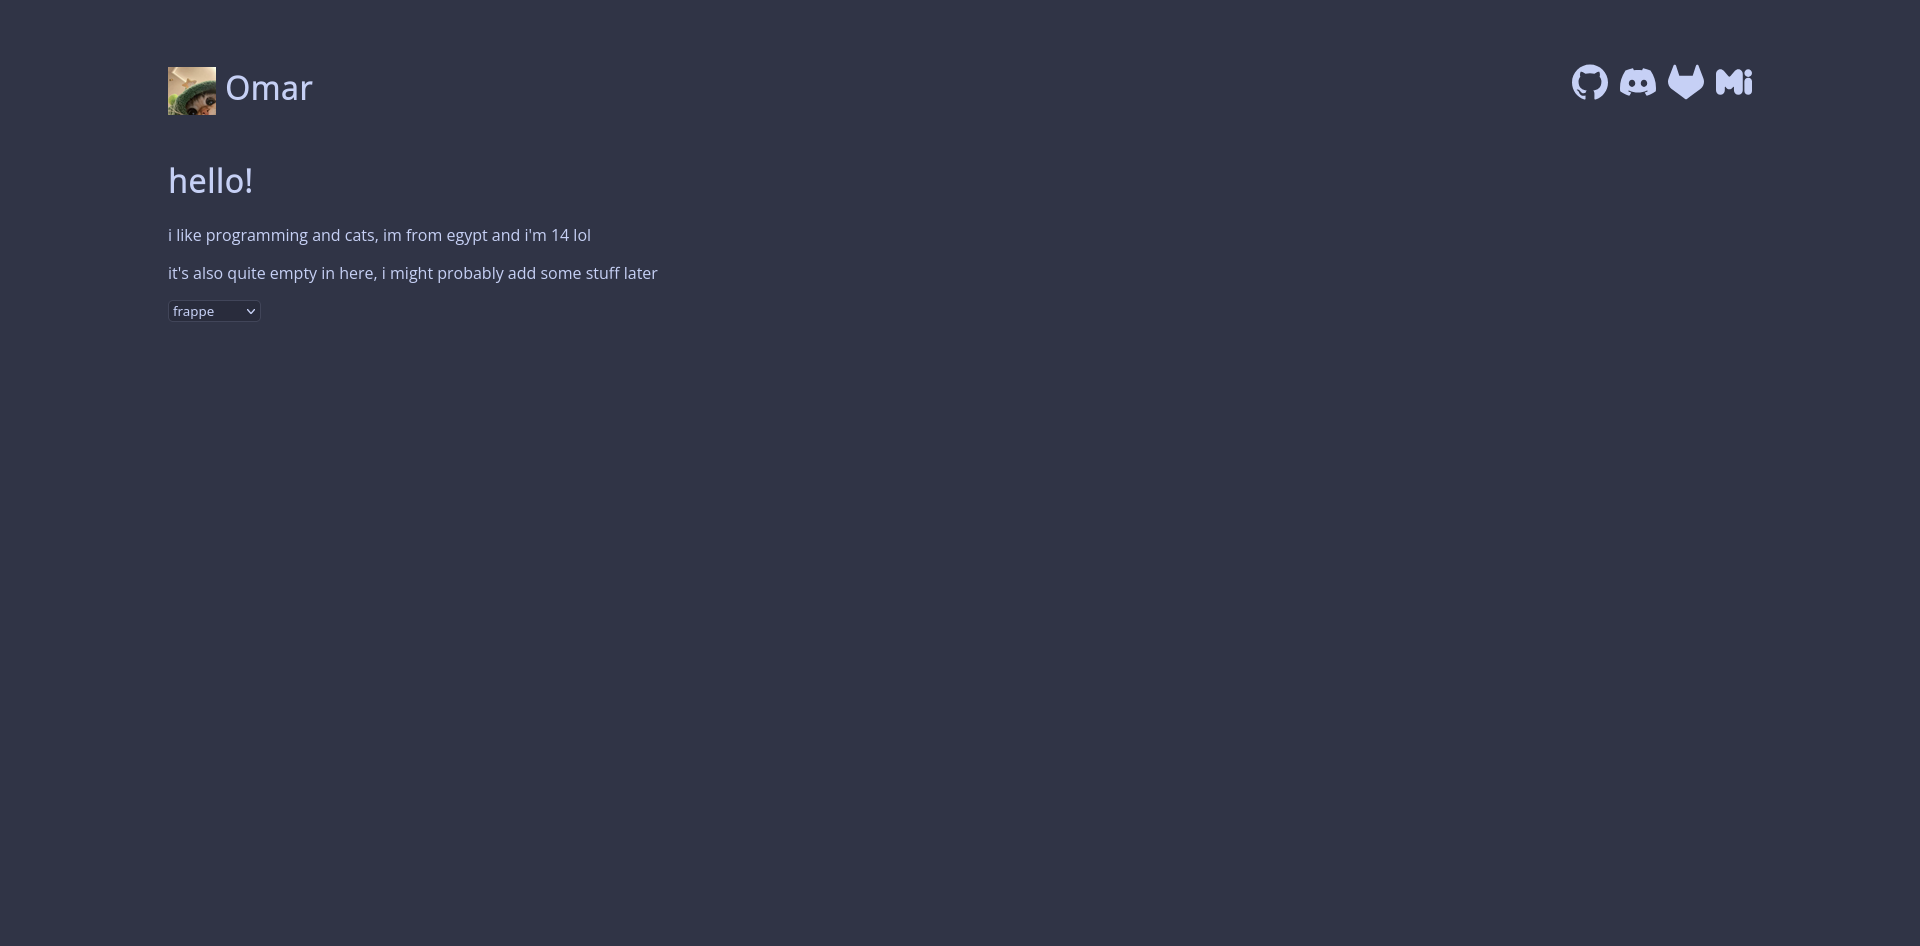
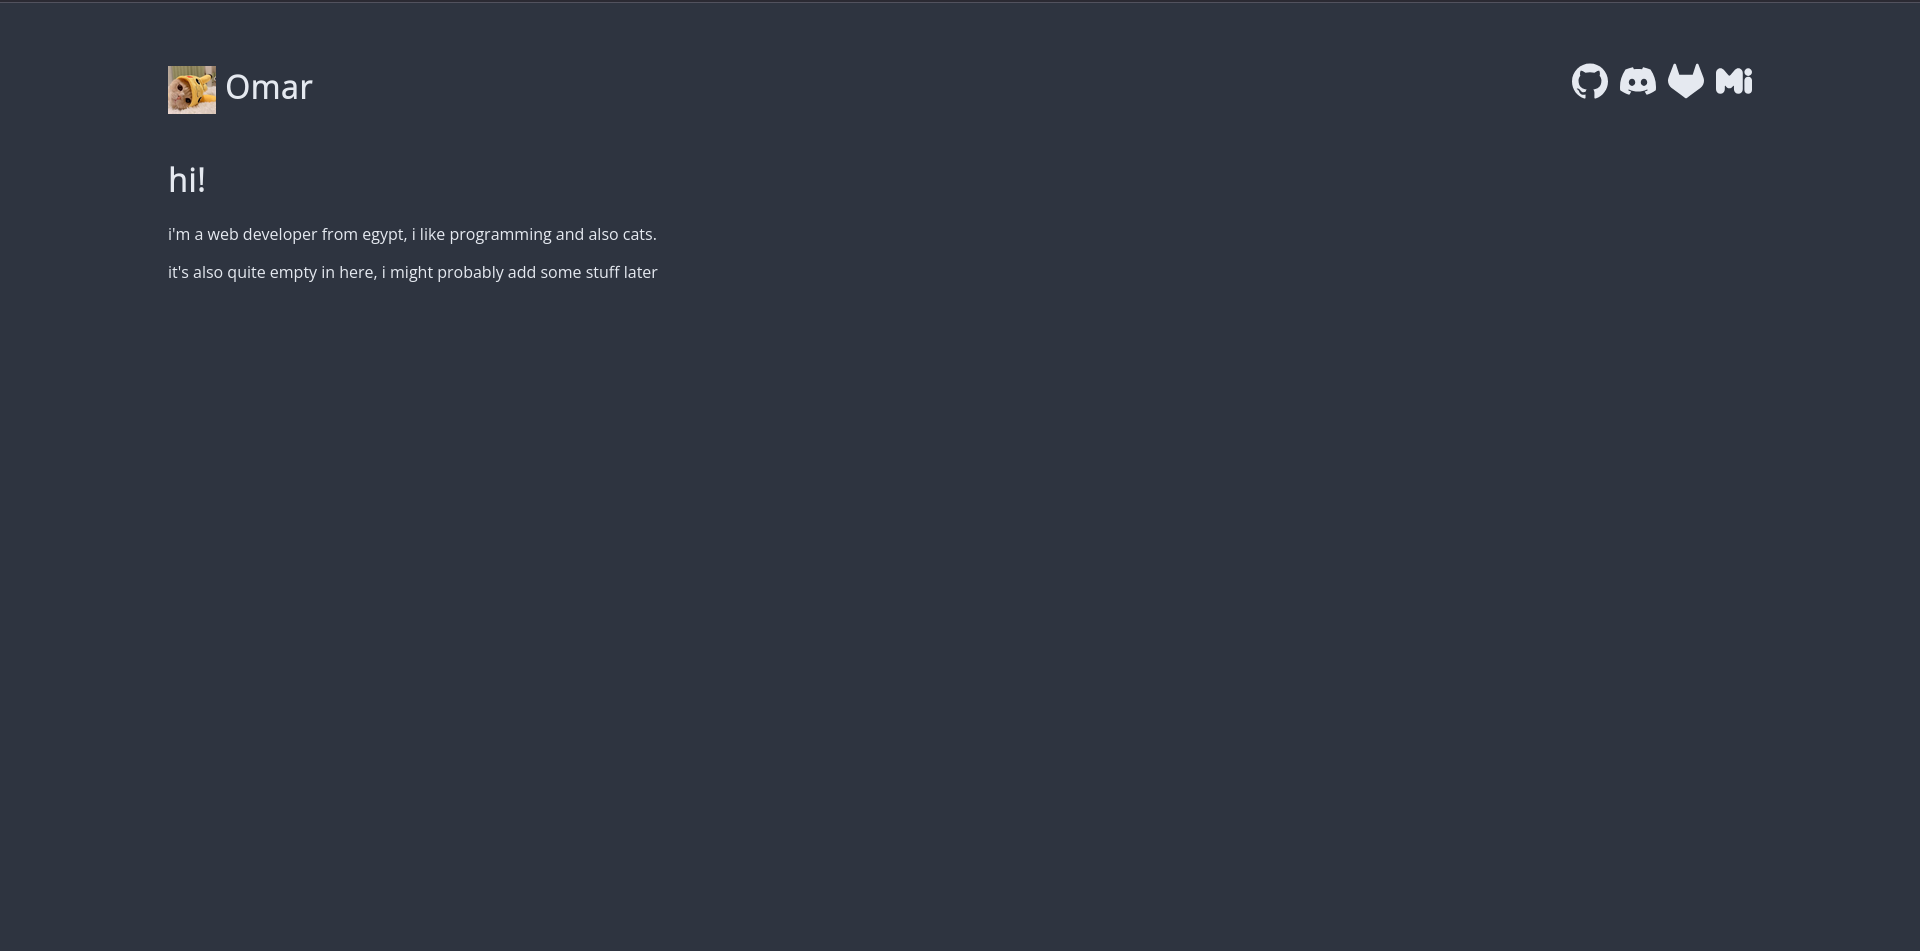
:3

diff --git a/index.html b/index.html
@@ -1,7 +1,7 @@
 <!DOCTYPE html>
 <html lang="en">
 <head>
-  <link rel="icon" type="image/x-icon" href="cat.jpg" />
+  <link rel="icon" type="image/x-icon" href="cat.png" />
   <title>somerand0mcat</title>
   <meta content="somerand0mcat" property="og:title" />
   <meta content="i like programming and cats, im also from egypt lol" property="og:description" />
@@ -10,7 +10,7 @@
 </head>
 <body>
   <header class="header">
-    <h1><img class="cat" src="cat.jpg" width="48px" height="48px"/> Omar</h1>
+    <h1><img class="cat" src="cat.png" width="48px" height="48px"/> Omar</h1>
     <ul class="social-links">
       <li>
         <a href="https://github.com/somerand0mcatt">
@@ -50,15 +50,8 @@
       </li>
     </ul>
   </header>
-  <h1>hello!</h1>
-  <p>i like programming and cats, im from egypt and i'm 14 lol</p>
+  <h1>hi!</h1>
+  <p>i'm a web developer from egypt, i like programming and also cats.</p>
   <p>it's also quite empty in here, i might probably add some stuff later</p>
-  <select class="flavor-selector">
-    <option value="latte">latte</option>
-    <option value="frappe">frappe</option>
-    <option value="macchiato">macchiato</option>
-    <option value="mocha">mocha</option>
-  </select>
-  <script src="/js/flavor-selector.js"></script>
 </body>
 </html>

diff --git a/style.css b/style.css
@@ -1,43 +1,14 @@
 @import url("https://fonts.googleapis.com/css?family=Open+Sans&display=swap");
 
-:root[flavor="latte"] {
-  --base: #eff1f5;
-  --mantle: #e6e9ef;
-  --crust: #dce0e8;
-  --surface0: #ccd0da;
-  --text: #4c4f69;
-  --accent: #8839ef;
-}
-
-:root[flavor="frappe"] {
-  --base: #303446;
-  --mantle: #292c3c;
-  --crust: #232634;
-  --surface0: #414559;
-  --text: #c6d0f5;
-  --accent: #ca9ee6;
-}
-
-:root[flavor="macchiato"] {
-  --base: #24273a;
-  --mantle: #1e2030;
-  --crust: #181926;
-  --surface0: #363a4f;
-  --text: #cad3f5;
-  --accent: #c6a0f6;
-}
-
-:root[flavor="mocha"] {
-  --base: #1e1e2e;
-  --mantle: #181825;
-  --crust: #11111b;
-  --surface0: #313244;
-  --text: #cdd6f4;
-  --accent: #cba6f7;
+:root {
+  --bg: #2e3440;
+  --surface: #3b4252;
+  --text: #e5e9f0;
+  --accent: #81a1c1;
 }
 
 body {
-  background-color: var(--base);
+  background-color: var(--bg);
   color: var(--text);
   font-family: "Open Sans";
   padding-left: 10rem;
@@ -77,9 +48,9 @@ ul {
 }
 
 select {
-  background-color: var(--mantle);
+  background-color: var(--surface);
   color: var(--text);
   border: 1px solid;
   border-radius: 5px;
-  border-color: var(--surface0);
+  border-color: var(--surface);
 }
